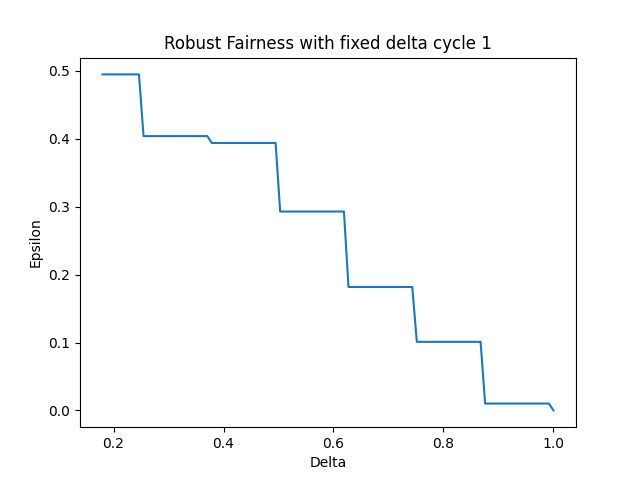
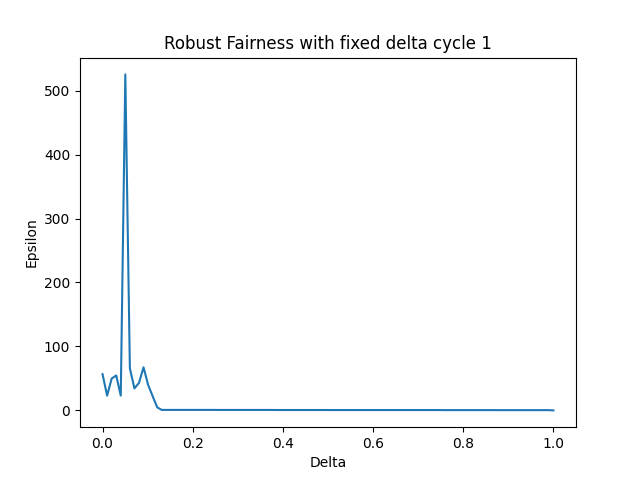
Fix robust fairness plot

diff --git a/tezos_analysis.py b/tezos_analysis.py
@@ -330,7 +330,7 @@ def plot_expectational_fairness_difference(start, end, baker):
     plt.xlabel('Cycle')
     plt.ylabel('Absolute difference of actual and expected reward fraction')
     plt.title('Expectational Fairness')
-    plt.savefig('images/expectational_fairness_difference_' + str(start) + '_' + str(end) + '.png')
+    plt.savefig('images/expectational_fairness_difference_' + str(start) + '_' + str(end) + '_baker_' + baker +'.png')
     plt.close()
 
 
@@ -345,44 +345,55 @@ def plot_robust_fairness(address, cycle):
     Version 1 cycle all bakers"""
 
     EPS = np.empty([100])
-    Deltas = np.linspace(0.18, 1, 100)  # take deltas which are higher than 0.18 as there the fluctuations are lower
+    Deltas = np.linspace(0.2, 1, 100)  # take deltas which are higher than 0.18 as there the fluctuations are lower
     Epsilons = np.linspace(0, 1, 100)
-    # TODO: initial is probably there where the baker first occured -> not cycle 0
+
     # initial_rewards a
     initial_rewards = []     # list with initial income for all the bakers
     initial_reward = cur.execute('select total_income from income_table where cycle = 0').fetchall()
     for c in range(0, len(initial_reward)):
         rew_c = cur.execute('select total_income from income_table where cycle = 0').fetchall()[c][0]
         initial_rewards.append(rew_c)
+    initial_total = cur.execute('select sum(total_income) from income_table where cycle = 0').fetchall()[0][0]
+    initial_stakes = []
+    for i in initial_rewards:
+        init_stake = i/initial_total
+        initial_stakes.append(init_stake)
+
     # fractions gamma_a
-    fractions = []
-    # TODO: take percentages of initial rewards and percentages of fractions !!
-    fraction = cur.execute('select total_income from income_table where cycle=%s' % cycle).fetchall()
-    for f in range(0, len(fraction)):
+    rewards_array = []
+    rewards = cur.execute('select total_income from income_table where cycle=%s' % cycle).fetchall()
+    for f in range(0, len(rewards)):
         fraction_f = cur.execute('select total_income from income_table where cycle=%s' % cycle).fetchall()[f][0]
-        fractions.append(fraction_f)
+        rewards_array.append(fraction_f)
+
+    fractions = []
+    total_reward = cur.execute('select sum(total_income) from income_table where cycle=%s' % cycle).fetchall()[0][0]
+    for r in rewards_array:
+        fraction_r = r/total_reward
+        fractions.append(fraction_r)
 
     # convert initial_rewards and fractions to float array
-    initial_rewards = np.fromiter(initial_rewards, dtype=float)
+    initial_stakes = np.fromiter(initial_stakes, dtype=float)
     fractions = np.fromiter(fractions, dtype=float)
 
     for idx, delta in enumerate(Deltas):
         for eps in Epsilons:
-            low_eps = (1-eps)*initial_rewards <= fractions
-            high_eps = fractions <= (1+eps)*initial_rewards
+            low_eps = (1-eps)*initial_stakes <= fractions
+            high_eps = fractions <= (1+eps)*initial_stakes
             Freq = low_eps * high_eps
             Pr = sum(Freq/len(fractions))
             if Pr >= 1-delta:
                 EPS[idx] = eps
                 break
     print('EPS', EPS)
-    print("The bakers put " + str(round(sum(initial_rewards), 4) * 100) + "% of the stakes and received " + str(
+    print("The bakers put " + str(round(sum(initial_stakes), 4) * 100) + "% of the stakes and received " + str(
         round(sum(fractions), 4) * 100) + "% of the rewards")
     plt.plot(Deltas, EPS)
     plt.title('Robust Fairness with fixed delta cycle ' + str(cycle))
     plt.xlabel('Delta')
     plt.ylabel('Epsilon')
-    plt.savefig('images/robust_fairness_cycle_' + str(cycle) + '.png')
+    plt.savefig('images/robust_fairness_delta_bigger02_cycle_' + str(cycle) + '.png')
 
 
 if __name__ == '__main__':
@@ -442,10 +453,16 @@ if __name__ == '__main__':
     for start, end in zip(start_cycles, end_cycles):
         plot_expectational_fairness_difference(start, end, baker)
 
+    baker_2 = 'tz3NExpXn9aPNZPorRE4SdjJ2RGrfbJgMAaV'
+    plot_expectational_fairness_difference(0, 396, baker_2)
+
     # TODO: do the same for rolls? Assumed that the "stake" is the initial reward that the bakers have at cycle 0
 
     # Robust fairness (we fix delta and a specific cycle and find epsilon)
     plot_robust_fairness(baker, 1)  # we look at cycle 1 as there we have the same bakers as in cycle 0
+    plot_robust_fairness(baker, 5)
+    # plot_robust_fairness(baker, 150) # cycle 150 # TODO: take only the bakers that are always active -> not possible to compare as more bakers are there
+    # plot_robust_fairness(baker, 200)
 
     # Close connection
     con.close()
